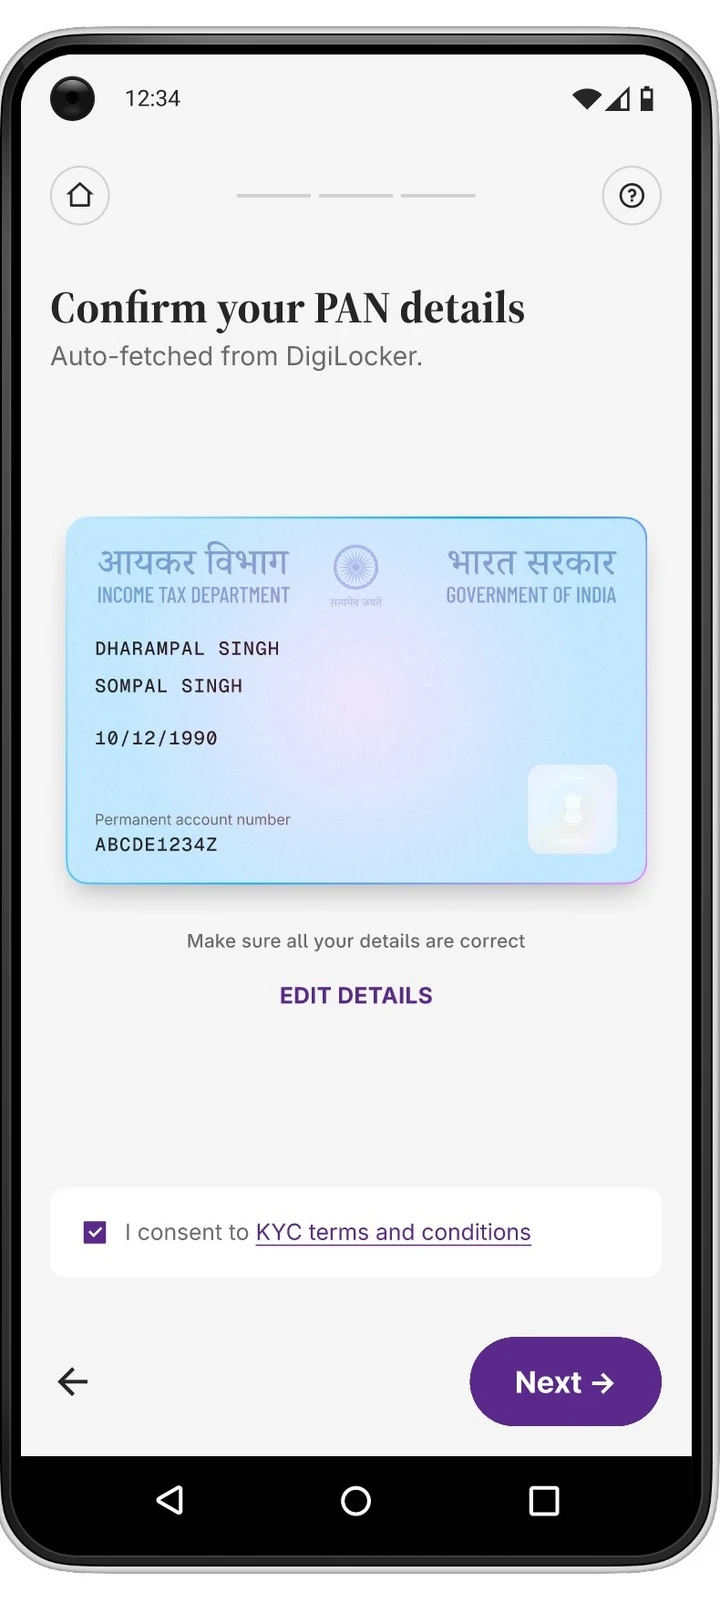
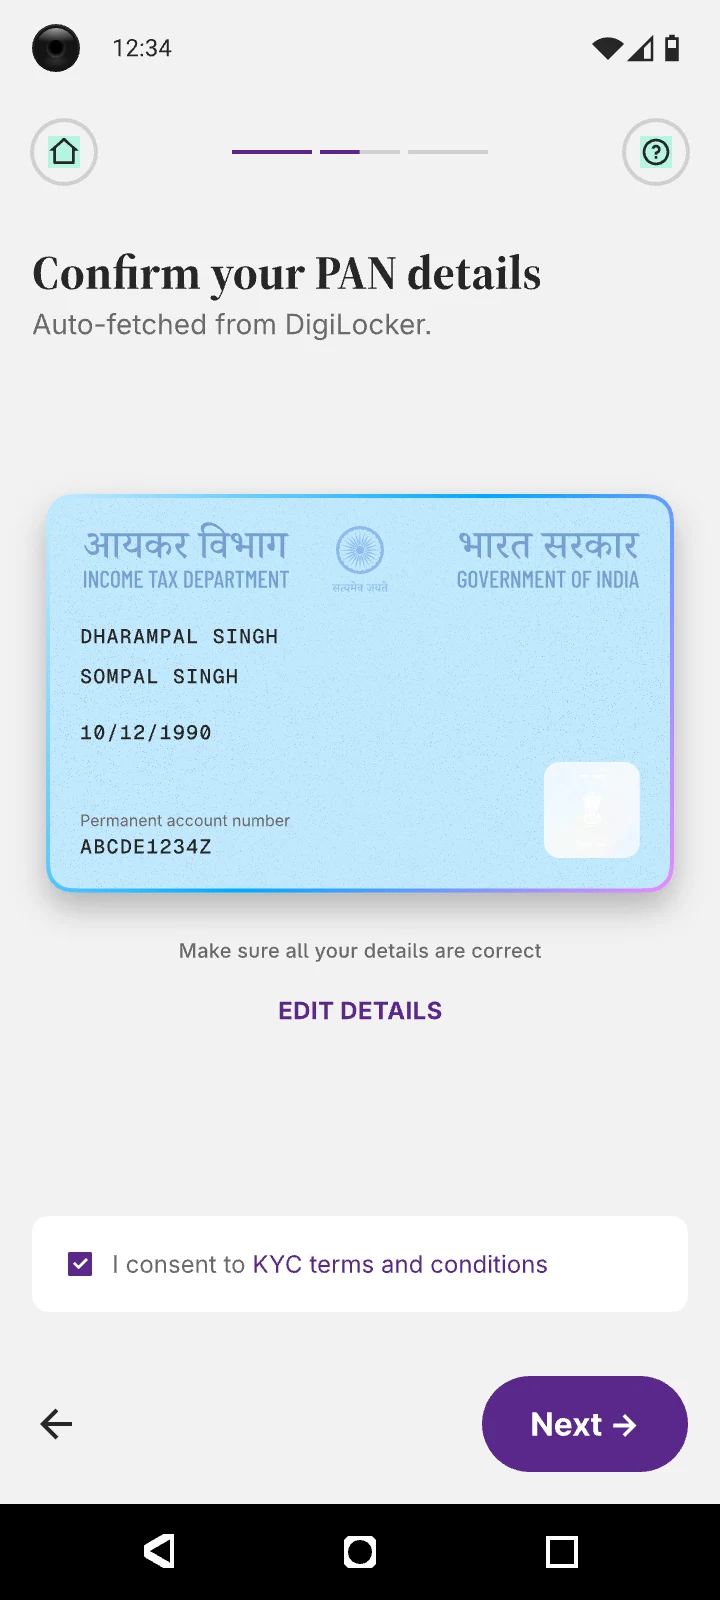
AO case study: fix nested PAN screens, centre before/after, add Small moments copy

diff --git a/src/app/work/account-opening/page.tsx b/src/app/work/account-opening/page.tsx
@@ -46,14 +46,14 @@ function Compare({ before, after }: { before: string[][]; after: string[][] }) {
   const phone = `min(${n <= 3 ? "21vw" : "16vw"}, calc((100vw - 320px) / ${n}))`;
   const group = (label: string, items: string[][]) => (
     <div className="shrink-0">
-      <p className="label mb-5">{label}</p>
-      <div className="flex gap-4">
+      <p className="label mb-5 text-center">{label}</p>
+      <div className="flex justify-center gap-4">
         {items.map(([src, alt]) => {
           const final = src.startsWith("p/");
           return (
             <figure key={src} className={`shrink-0 ${final ? "w-[61.6vw] md:w-[calc(var(--phone)*1.0263)]" : "w-[60vw] md:w-[var(--phone)]"}`}>
               <Shot src={src} alt={alt} />
-              <figcaption className="mt-3 text-sm leading-snug text-muted">{alt}</figcaption>
+              <figcaption className="mt-3 text-center text-sm leading-snug text-muted">{alt}</figcaption>
             </figure>
           );
         })}
@@ -567,11 +567,11 @@ export default function AccountOpening() {
       <section className="px-4 pb-24 sm:px-10 md:pb-36">
         {CHANGES.map((b, i) => (
           <div key={b.title} className="border-t border-line py-16 first:border-t-0">
-            <div className="flex items-baseline gap-4">
+            <div className="flex items-baseline justify-center gap-4">
               <span className="font-mono text-xs text-muted">{String(i + 1).padStart(2, "0")}</span>
               <h3 data-split="lines" className="text-3xl font-semibold tracking-[-0.035em]">{b.title}</h3>
             </div>
-            <div data-fade className="mt-8 grid gap-6 md:grid-cols-[1fr_1fr_auto] md:gap-10">
+            <div data-fade className="mt-8 grid gap-6 text-center md:grid-cols-[1fr_1fr_auto] md:gap-10">
               <div>
                 <span className="label">Version 2.0</span>
                 <p className="mt-2 text-muted">{b.problem}</p>
@@ -581,9 +581,9 @@ export default function AccountOpening() {
                 <p className="mt-2 text-muted">{b.change}</p>
               </div>
               {b.result ? (
-                <div className="md:text-right">
+                <div>
                   <b data-count className="block text-5xl font-semibold tabular-nums tracking-[-0.05em]">{b.result[0]}</b>
-                  <span className="mt-1 block text-xs text-muted md:ml-auto md:max-w-[9rem]">{b.result[1]}</span>
+                  <span className="mx-auto mt-1 block text-xs text-muted md:max-w-[9rem]">{b.result[1]}</span>
                 </div>
               ) : <span className="hidden md:block" />}
             </div>
@@ -619,9 +619,10 @@ export default function AccountOpening() {
       </Chapter>
 
       {/* ---------- 04d small moments: columns drift at different speeds ---------- */}
-      <Chapter n="04D" label="Small moments" title="The details that keep people going.">
-        <Lede>Most of these answer a doubt before it turns into a reason to leave.</Lede>
-        <div className="mt-16 grid grid-cols-2 gap-x-4 md:grid-cols-4">
+      <Chapter n="04D" label="Small moments" title="Delight is built in.">
+        <Lede>Delight is woven into every interaction from the very beginning. Every step is designed to reduce anxiety, build confidence, and create moments of joy.</Lede>
+        <H3>Micro-moments that compound into the feel</H3>
+        <div className="mt-12 grid grid-cols-2 gap-x-4 md:grid-cols-4">
           {[0, 1, 2, 3].map((col) => (
             <div key={col} data-parallax={col % 2 ? "-0.08" : "0.06"} className="flex flex-col gap-10">
               {MOMENTS.filter((_, i) => i % 4 === col).map(([src, chip, h]) => (
@@ -638,6 +639,9 @@ export default function AccountOpening() {
             </div>
           ))}
         </div>
+        <p data-fade className="mt-24 max-w-3xl text-3xl font-medium leading-[1.1] tracking-[-0.03em] md:text-[2.6vw]">
+          An onboarding experience that users actually look forward to completing.
+        </p>
       </Chapter>
 
       {/* ---------- 05 the outcome ---------- */}
